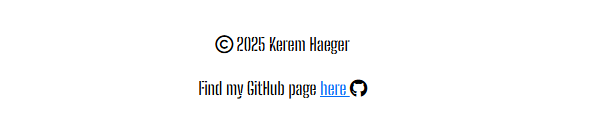
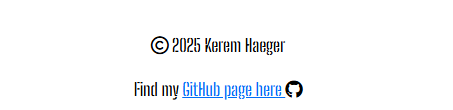
Change footer image for documentation

Changed region(s): [[0.2781, 0.6, 0.6799, 0.9], [0.3091, 0.2455, 0.649, 0.5182]]

diff --git a/index.html b/index.html
@@ -117,9 +117,9 @@
     <!-- Footer for copyright -->
     <footer>
         <p><i class="fa-regular fa-copyright"></i> 2025 Kerem Haeger</p>
-        <p class="github">Find my GitHub page <a href="https://github.com/Kerem-Haeger/"
-                aria-label="Link to my GitHub page! (Opens in a new tab)" target="_blank" rel="noopener">here <i
-                    class="fa-brands fa-github"></i></a></p>
+        <p class="github">Find my <a href="https://github.com/Kerem-Haeger/"
+                aria-label="Link to my GitHub page! (Opens in a new tab)" target="_blank" rel="noopener">GitHub page
+                here <i class="fa-brands fa-github"></i></a></p>
     </footer>
 
     <!-- Bootstrap script -->
